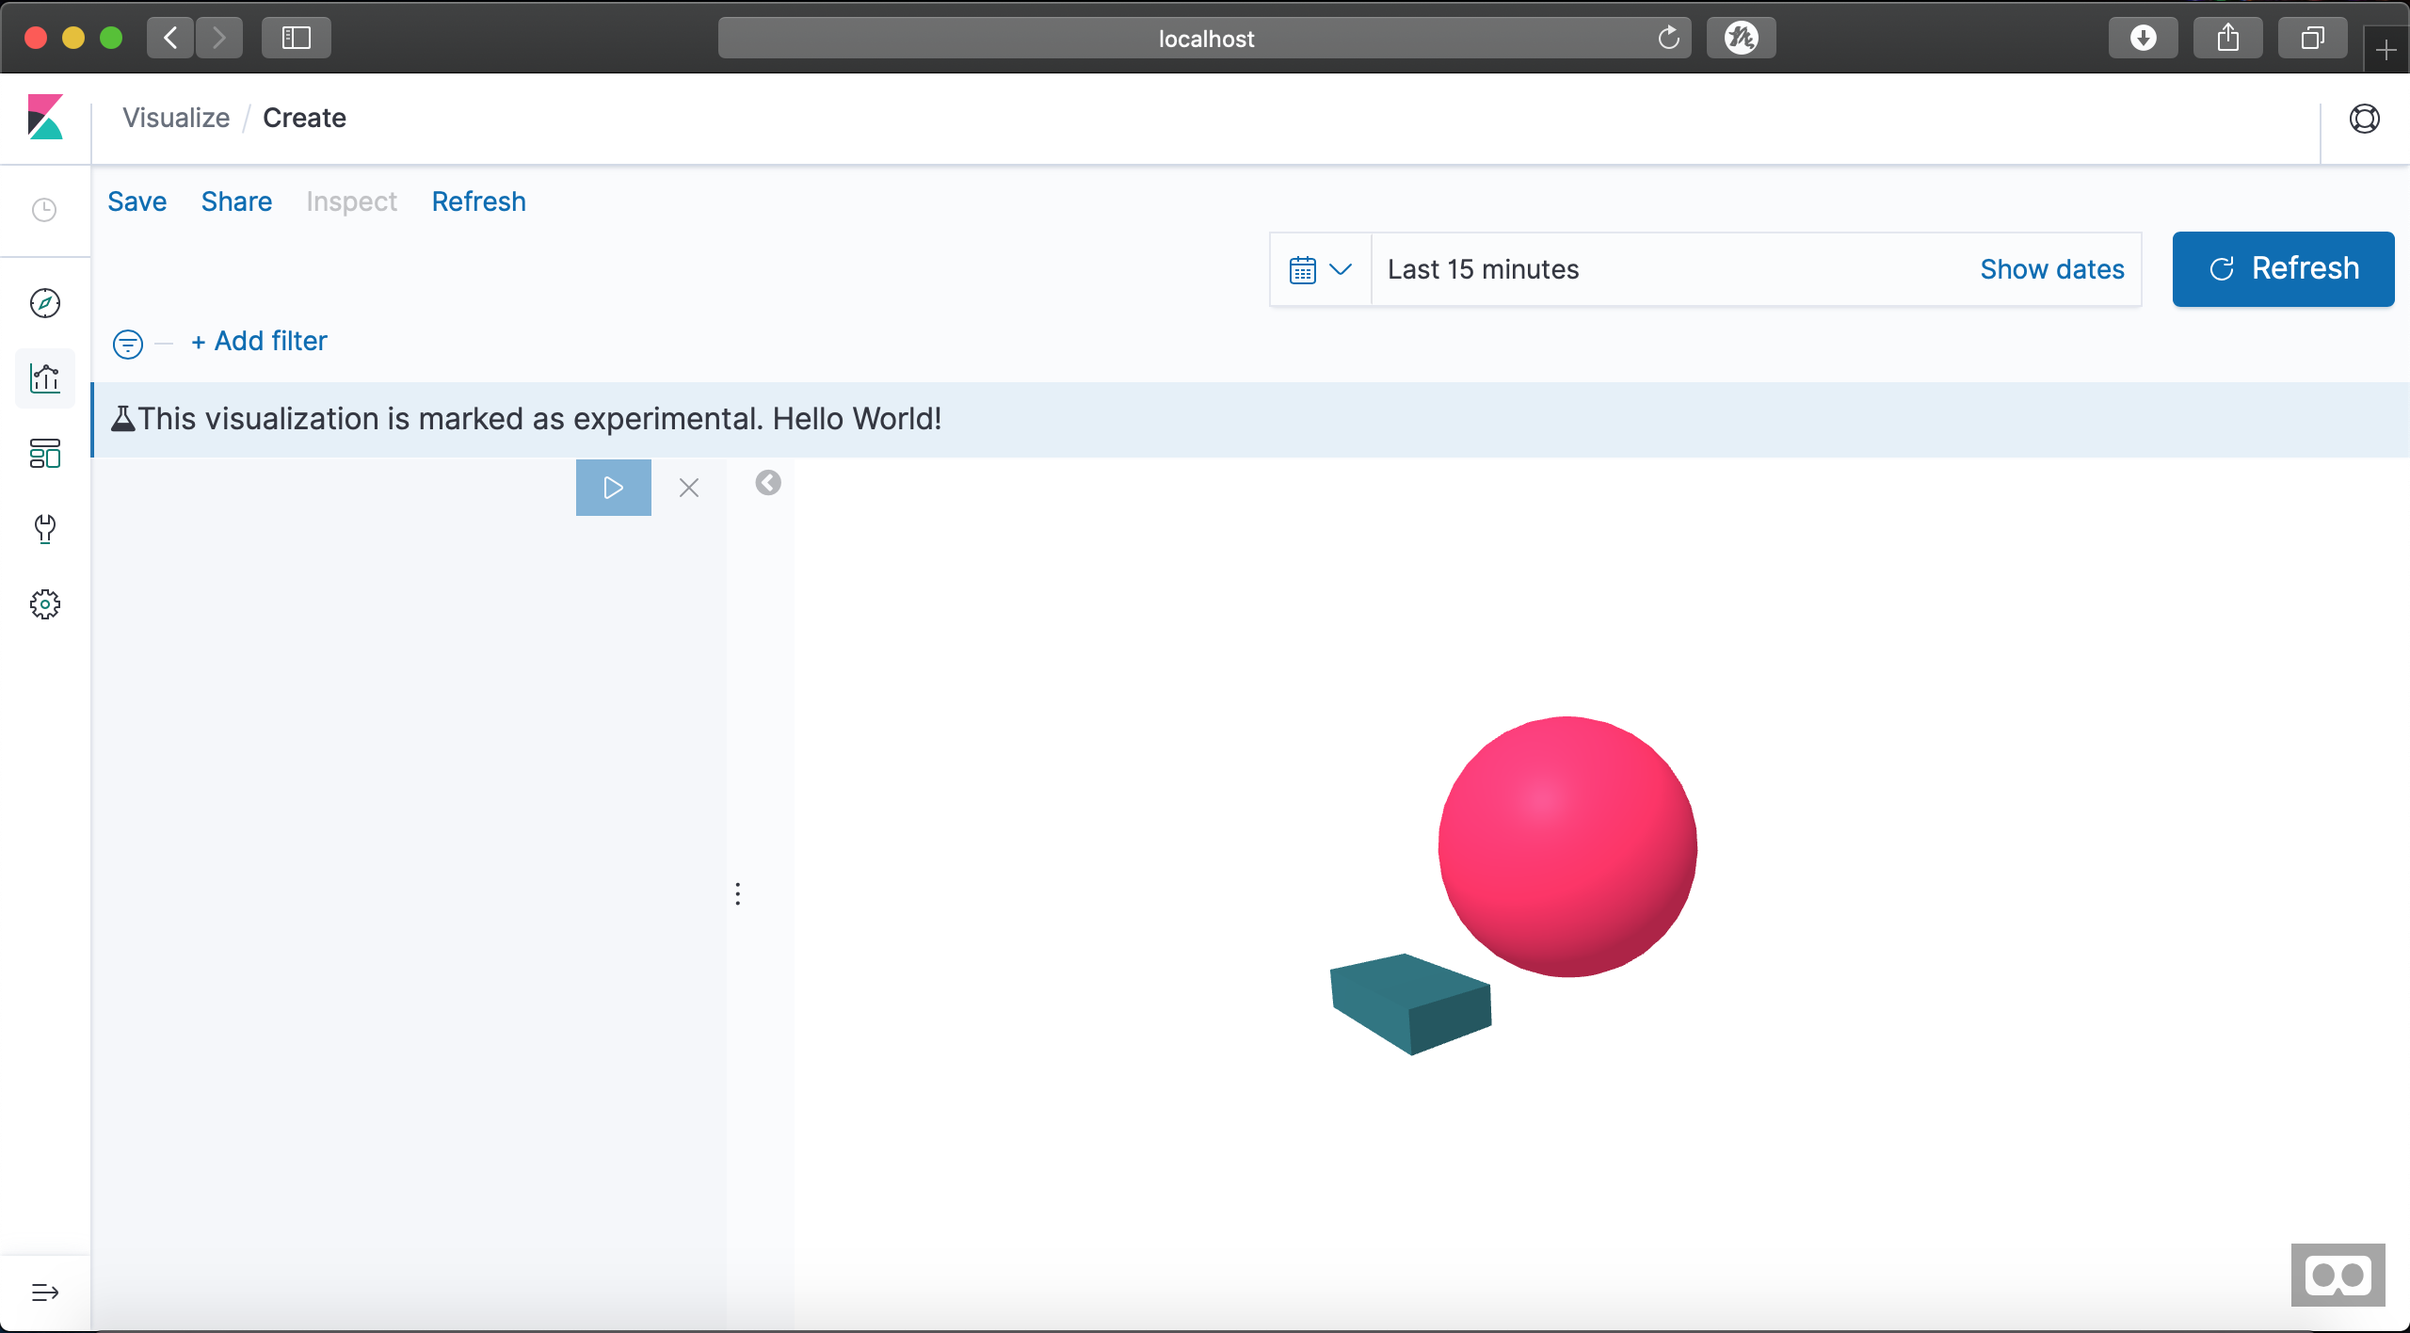
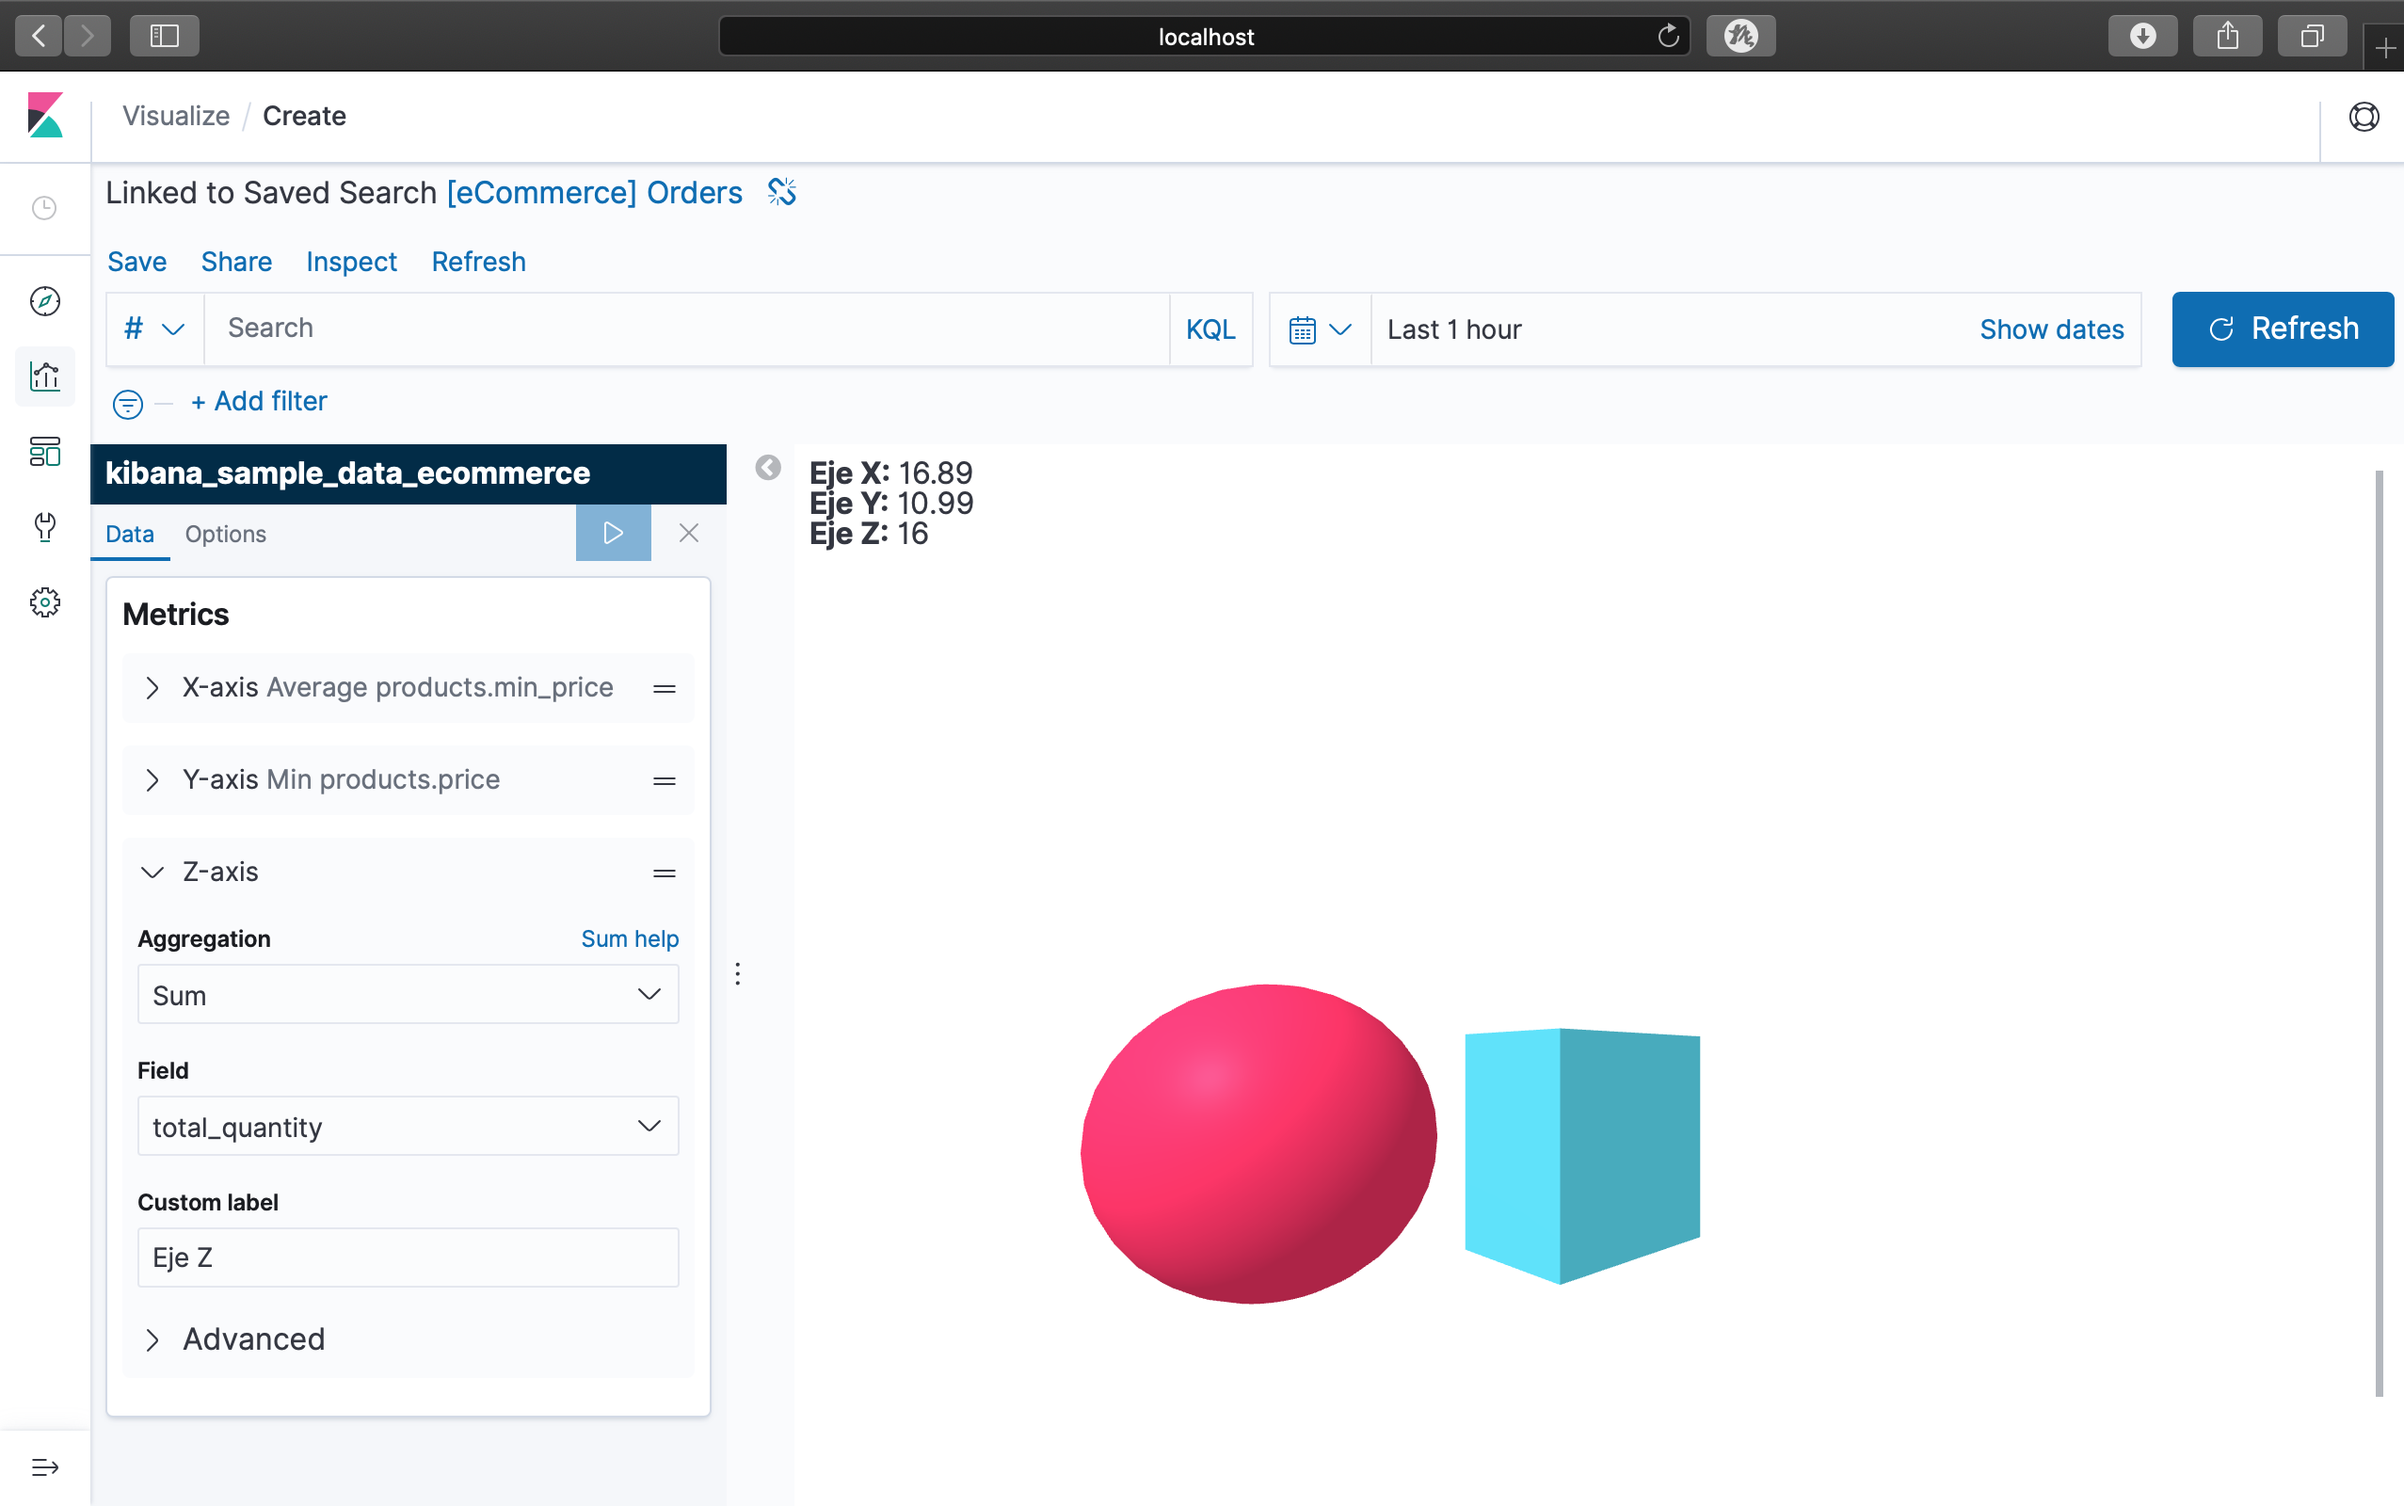
now you can use data

diff --git a/public/kbn_aframe_controller.js b/public/kbn_aframe_controller.js
@@ -1,4 +1,8 @@
+//import $ from 'jquery';
+import React from 'react';
+
 import template from './index.html';
+import box from './box.js'
 
 // define class
 class VisController {
@@ -6,6 +10,7 @@ class VisController {
       console.log('Creating...');
       this.el = el;
       this.vis = vis;
+      console.log(this);
       console.log(this.el);
       console.log(this.vis);
 
@@ -24,12 +29,13 @@ class VisController {
    render(visData, status) {
 
       if (visData) {
-        this.container.innerHTML = template;
+        this.container.innerHTML = '';
         console.log(visData);
       }
 
       const table = visData;
       const metrics = [];
+      const axis = [];
 
       //get metrics
       table.columns.forEach((column, i) => {
@@ -46,20 +52,70 @@ class VisController {
           name: name,
           value: value
         });
+        // add axis
+        axis.push(value);
       });
       console.log(metrics);
+      console.log(axis);
+
       //render metric in vis
       metrics.forEach((metric, i) => {
-        const metricDiv = document.createElement('div');
+        var metricDiv = document.createElement('div');
         metricDiv.className = 'myvis-metric-div';
         metricDiv.innerHTML = `<b>${metric.name}:</b> ${metric.value}`;
         metricDiv.setAttribute('style', `font-size: ${this.vis.params.fontSize}pt`);
         this.container.appendChild(metricDiv);
       });
 
-        return new Promise(resolve => {
+      //Creando escenario
+      var escena = document.createElement('a-scene');
+      escena.setAttribute('embedded', true);
+
+      // entity primitive
+      var entidad = document.createElement('a-entity');
+      entidad.setAttribute('geometry', {
+        primitive: 'sphere',
+        radius: 1.25
+      });
+      entidad.setAttribute('position', {
+        x: -2.5,
+        y: 1,
+        z: -5
+      });
+      entidad.setAttribute('material',{
+        color: '#EF2D5E'
+      });
+      entidad.setAttribute('shadow', true);
+
+
+      // entity con box.js
+      var caja = document.createElement('a-entity');
+      caja.setAttribute('box', {
+        height: axis[0]/10, //0.5
+        width: axis[1]/10, //0.25
+        depth: axis[2]/10, //1
+      });
+      caja.setAttribute('position', {
+        x: 0,
+        y: 1,
+        z: -5
+      });
+      caja.setAttribute('rotation', {
+        x: 0,
+        y: -45,
+        z: 0
+      });
+      caja.setAttribute('material', 'color', '#4CC3D9');
+
+      escena.appendChild(entidad);
+      escena.appendChild(caja);
+      this.container.appendChild(escena);
+
+      console.log(escena);
+
+        /*return new Promise(resolve => {
           resolve('when done rendering');
-    });
+    });*/
    }
 };
 

diff --git a/public/box.js b/public/box.js
@@ -7,7 +7,6 @@ AFRAME.registerComponent('box', {
     width: {type: 'number', default: 1},
     height: {type: 'number', default: 1},
     depth: {type: 'number', default: 1},
-    color: {type: 'color', default: '#AAA'}
   },
 
   //Funcion inicial
@@ -18,11 +17,8 @@ AFRAME.registerComponent('box', {
     // Crea la figura
     this.geometry = new THREE.BoxBufferGeometry(data.width, data.height, data.depth);
 
-    // Se le da un material
-    this.material = new THREE.MeshStandardMaterial({color: data.color});
-
     // Creamos la mesh
-    this.mesh = new THREE.Mesh(this.geometry, this.material);
+    this.mesh = new THREE.Mesh(this.geometry);
 
     // Creamos el objeto 3D
     el.setObject3D('mesh', this.mesh);
@@ -46,10 +42,6 @@ AFRAME.registerComponent('box', {
                                                                     data.depth);
     }
 
-    // Material-related properties changed. Update the material.
-    if (data.color !== oldData.color) {
-      el.getObject3D('mesh').material.color = new THREE.Color(data.color);
-    }
   },
 
   // Borramos la figura

diff --git a/README.md b/README.md
@@ -28,11 +28,11 @@ rm -rf plugins/kbn_aframe/
 ```
 ### HOW TO USE
 
-Use this plugin creating a new “VR Experience” visualization.
+Use this plugin creating a new “VR Experience” visualization. Then entry your elasticsearch data (3 axis) to draw the box.
 
 ![Screenshot](images/how_to_use.gif)
 
-> :bangbang: **IMPORTANT:** This plugin is currently under development and it displays only a box and a sphere.
+> :bangbang: **IMPORTANT:** This plugin is currently under development and it displays only a box with your data and a simple sphere.
 
 
 ### CONTACT
